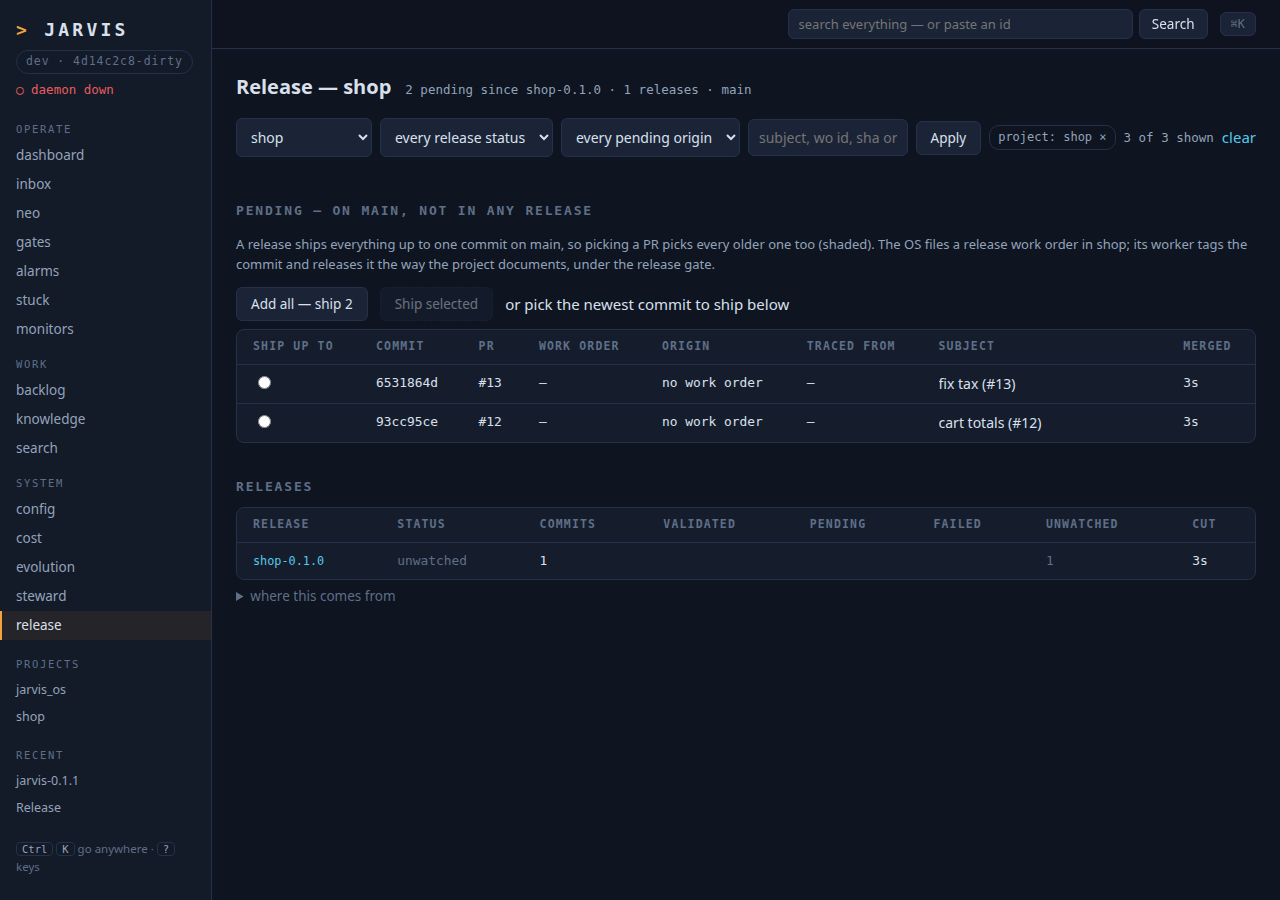
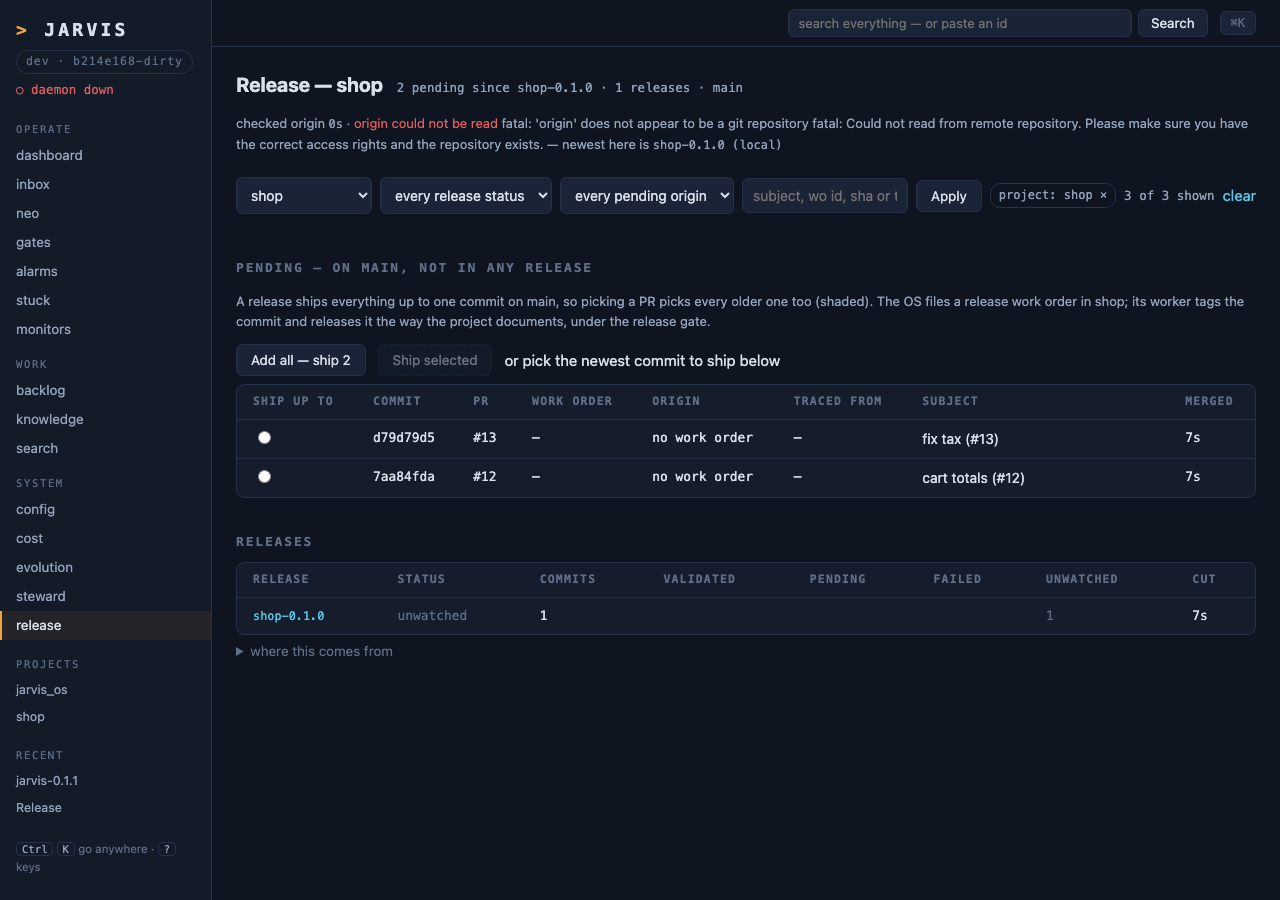
[wo-20d859bf] /release states its provenance, and refuses a cut on already-released commits
The page now states what it compared itself against: when it asked origin, origin's
newest tag, and the version production runs. When the read-only `git ls-remote --tags
origin` fails, the page says so and labels the local newest tag `(local)` rather than
presenting it as origin's.

`ops.release_cut` refuses an OS cut whose oldest commit a `jarvis-*` tag already carries,
naming that tag, before the order is filed. That check was prose in `RELEASE_CUT_BRIEF`,
enforced by a worker only after a session had been spawned.

From io-c1bbfff4, finding release-page-provenance. Neo Q46 chose ls-remote over a fetch,
which wo-d4ce8488 and wo-245af6ec own.

Claude-Session: https://claude.ai/code/session_016jp7VMp9YN9NsPwMGDxgzw

diff --git a/src/jarvis/ui/templates/release.html b/src/jarvis/ui/templates/release.html
@@ -15,6 +15,20 @@ tr.rides td { background: color-mix(in srgb, var(--cyan) 8%, transparent); }
 {{ ui.page_head("Release — " ~ report.project, report.pending | length ~ " pending since " ~ (report.newest or "the first commit")
                 ~ " · " ~ report.releases | length ~ " releases · " ~ report.main_ref) }}
 
+{% set prov = report.provenance %}
+<p class="kv">checked origin <span class="when mono" title="{{ fmt_ts(prov.checked_at) }}">{{ fmt_age(prov.checked_at) }}</span> ·
+  {% if prov.error %}<span class="tone-bad">origin could not be read</span>
+    <span class="sub">{{ prov.error }}</span> — newest here is
+    <span class="mono">{{ (report.newest or "no tag") ~ " (local)" }}</span>
+  {%- else %}newest on origin <span class="mono">{{ prov.origin_newest }}</span>
+    {%- if prov.origin_newest != report.newest %} — this checkout has only
+      <span class="mono">{{ report.newest or "no tag" }}</span>, so a cut here would re-ship released work{% endif %}
+  {%- endif %}
+  {%- if report.is_os %} · production runs
+    {% if prov.production %}<span class="mono">{{ prov.production }}</span>
+    {%- else %}<span class="tone-bad">an unknown version</span> <span class="sub">{{ prov.production_error }}</span>{% endif %}
+  {%- endif %}</p>
+
 {% if report.in_flight %}
 <section class="attention needs-you">
   <div class="strip-head"><span class="n">{{ report.in_flight | length }}</span>release in flight — no new cut until it settles</div>

diff --git a/tests/test_release_console.py b/tests/test_release_console.py
@@ -176,3 +176,68 @@ def test_a_release_page_colours_a_failed_pr(os_repo):
     page = TestClient(create_app()).get("/release/jarvis-0.1.1").text
     assert f'class="mono tone-bad" href="/mo/{os_repo["mv"]}"' in page
     assert "needs-you" in page
+
+
+def _with_origin(repo: Path, bare: Path, *tags: tuple[str, str]) -> None:
+    """A real `origin` carrying `(tag, rev)`s that this clone has never fetched"""
+    _git(bare.parent, "init", "-q", "--bare", bare.name)
+    _git(repo, "remote", "add", "origin", str(bare))
+    _git(repo, "push", "-q", "origin", "main")
+    for name, rev in tags:
+        _git(repo, "tag", name, rev)
+        _git(repo, "push", "-q", "origin", name)
+        _git(repo, "tag", "-d", name)
+
+
+def test_the_page_states_what_origin_has_and_what_production_runs(os_repo, tmp_path,
+                                                                  monkeypatch):
+    """Finding release-page-provenance: three 'current versions' existed at once"""
+    _with_origin(os_repo["repo"], tmp_path / "origin.git", ("jarvis-0.2.0", "HEAD"))
+    prod = tmp_path / "prod"
+    prod.mkdir()
+    _git(prod, "init", "-q", "-b", "main")
+    _git(prod, "config", "user.email", "t@t")
+    _git(prod, "config", "user.name", "t")
+    _git(prod, "commit", "-q", "--allow-empty", "-m", "deployed")
+    _git(prod, "tag", "jarvis-0.0.9")
+    _git(prod, "checkout", "-q", "--detach", "jarvis-0.0.9")
+    monkeypatch.setattr(release, "production_code_dir", lambda: prod)
+
+    report = ops.release_overview()
+    prov = report["provenance"]
+    assert report["newest"] == "jarvis-0.1.0"  # what this clone can see
+    assert prov["origin_newest"] == "jarvis-0.2.0" and not prov["error"]
+    assert prov["checked_at"] > 0 and prov["production"] == "jarvis-0.0.9"
+
+    from fastapi.testclient import TestClient
+
+    from jarvis.ui.app import create_app
+
+    page = TestClient(create_app()).get("/release").text
+    assert "jarvis-0.2.0" in page and "jarvis-0.0.9" in page
+
+
+def test_an_unreachable_origin_is_named_never_passed_off_as_origins_tag(os_repo):
+    report = ops.release_overview()  # the fixture's clone has no `origin` at all
+    prov = report["provenance"]
+    assert prov["origin_newest"] == "" and prov["error"]
+
+    from fastapi.testclient import TestClient
+
+    from jarvis.ui.app import create_app
+
+    page = TestClient(create_app()).get("/release").text
+    assert "origin could not be read" in page and "jarvis-0.1.0 (local)" in page
+
+
+def test_a_cut_a_release_tag_already_carries_is_refused_by_tag_name(os_repo, tmp_path):
+    """The local clone is behind origin, so /release offers already-released commits"""
+    _with_origin(os_repo["repo"], tmp_path / "origin.git", ("jarvis-0.1.1", os_repo["sha2"]))
+    assert ops.release_overview()["newest"] == "jarvis-0.1.0"  # the clone cannot see it
+    with pytest.raises(ops.OpsError, match="jarvis-0.1.1 already"):
+        ops.release_cut(os_repo["sha3"])
+    store = ProjectStore(os_repo["repo"])
+    try:
+        assert not [w for w in store.list_work_orders() if "Ship a release" in w["title"]]
+    finally:
+        store.close()

diff --git a/src/jarvis/ops.py b/src/jarvis/ops.py
@@ -17593,6 +17593,22 @@ def _release_scope(project: str) -> tuple[str, Path, bool, str]:
         raise OpsError(f"cannot read the tags in {repo}: {e}") from e
 
 
+def _release_provenance(repo: Path, glob: str, is_os: bool) -> dict[str, Any]:
+    """What this page compared itself against: origin, and what production runs (Q46)"""
+    from . import release, release_view
+
+    origin, error = release_view.origin_newest(repo, glob)
+    row = {"checked_at": time.time(), "origin_newest": origin, "error": error,
+           "production": "", "production_error": ""}
+    if not is_os:  # another project's releases are not what the OS checkout runs
+        return row
+    status = release.production_status()
+    row["production"] = "" if status.ref == "HEAD" else status.ref
+    row["production_error"] = status.error or (
+        "the production checkout is not at a release tag" if status.ref == "HEAD" else "")
+    return row
+
+
 def release_overview(project: str = "") -> dict[str, Any]:
     """Pending work since the newest tag, and every release with its validation verdict"""
     from . import release_view
@@ -17618,6 +17634,7 @@ def release_overview(project: str = "") -> dict[str, Any]:
         raise OpsError(f"cannot read the release history in {repo}: {e}") from e
     return {"project": project, "repo": str(repo), "main_ref": ref, "newest": newest,
             "is_os": is_os, "tag_glob": glob, "pending": pending, "releases": releases,
+            "provenance": _release_provenance(repo, glob, is_os),
             "in_flight": [{"id": w["id"], "title": w["title"], "status": w["status"],
                            "href": order_path(project, w["id"])}
                           for w in _open_release_orders(project)]}
@@ -17651,7 +17668,7 @@ Run the ordinary release path, with this exact base and nothing else:
 That is a PRIVILEGED ACTION and it will be gated — correct and expected. Read `jarvis \
 brief gates` and make your case first (`jarvis gate request`). Do not move the base to a \
 newer commit, do not drop `--stage`, and do not restart any service by hand. If CI on \
-{base} is red, or a `jarvis-*` tag already contains it, stop and say so.
+{base} is red, stop and say so.
 """
 
 PROJECT_RELEASE_CUT_BRIEF = """\
@@ -17694,6 +17711,14 @@ def release_cut(base: str, project: str = "") -> dict[str, Any]:
     if not shipped:
         raise OpsError(f"{base[:12] or 'no commit'} is not pending on "
                        f"{overview['main_ref']} — reload /release and pick again")
+    if overview["is_os"]:
+        oldest = shipped[-1]
+        carried, _ = release.tags_containing(Path(overview["repo"]), [oldest["sha"]])
+        if carried:
+            raise OpsError(
+                f"{carried[0]} already carries {oldest['short']}, which a cut at "
+                f"{base[:8]} would ship again — this checkout is behind origin, which "
+                f"has {overview['provenance']['origin_newest'] or 'tags it cannot read'}")
     lines = "\n".join(
         f"- `{r['short']}` {r['subject']}" + (f" — `{r['wo_id']}`" if r["wo_id"] else "")
         for r in shipped)

diff --git a/src/jarvis/release_view.py b/src/jarvis/release_view.py
@@ -42,6 +42,23 @@ def tags(repo: Path, glob: str = release.RELEASE_TAG_GLOB) -> list[dict[str, Any
     return rows[::-1]
 
 
+def origin_newest(repo: Path, glob: str = release.RELEASE_TAG_GLOB) -> tuple[str, str]:
+    """origin's newest tag matching `glob`, or why it could not be read (Q46)"""
+    try:
+        out = subprocess.run(
+            ["git", "-C", str(repo), "ls-remote", "--tags", "--refs",
+             "--sort=version:refname", "origin", f"refs/tags/{glob}"],
+            capture_output=True, text=True, timeout=30, check=False)
+    except (OSError, subprocess.SubprocessError) as e:
+        return "", f"{type(e).__name__}: {e}"
+    if out.returncode != 0:
+        return "", (out.stderr or out.stdout).strip().replace("\n", " ")[:200] or \
+            f"git ls-remote exited {out.returncode}"
+    names = [line.split("refs/tags/", 1)[1] for line in out.stdout.splitlines()
+             if "refs/tags/" in line]
+    return (names[-1] if names else ""), "" if names else f"origin has no {glob} tag"
+
+
 def commits(repo: Path, from_ref: str, to_ref: str) -> list[dict[str, Any]]:
     """First-parent commits of `from..to`, newest first, release bump commits dropped"""
     span = f"{from_ref}..{to_ref}" if from_ref else to_ref

diff --git a/scripts/screenshot_release_console.py b/scripts/screenshot_release_console.py
@@ -54,6 +54,13 @@ def seed() -> Path:
         if tag:
             _git(repo, "tag", tag)
     store.close()
+    bare = repo.parent / "origin.git"  # origin is ahead of this clone, as in io-c1bbfff4
+    _git(repo.parent, "init", "-q", "--bare", "origin.git")
+    _git(repo, "remote", "add", "origin", str(bare))
+    _git(repo, "push", "-q", "origin", "main")
+    _git(repo, "tag", "jarvis-0.1.4")
+    _git(repo, "push", "-q", "origin", "jarvis-0.1.4")
+    _git(repo, "tag", "-d", "jarvis-0.1.4")
     app = repo.parent / "shop"  # another project, spec §3
     app.mkdir()
     _git(app, "init", "-q", "-b", "main")

diff --git a/ASSUMPTIONS_2026-11-04.md b/ASSUMPTIONS_2026-11-04.md
@@ -1,0 +1,23 @@
+# Assumptions — wo-20d859bf
+
+1. **Origin is read with `git ls-remote --tags origin`, not a fetch.** Neo ruled this in Q46:
+   it is the only option that states what origin actually has, and it stays clear of
+   wo-d4ce8488 (the `/release` fetch) and wo-245af6ec (the shared refresh layer), both still
+   running. When ls-remote fails the page says so and labels the local newest tag `(local)`.
+
+2. **The already-released refusal in `ops.release_cut` runs only for the OS project.**
+   `release.tags_containing` is hardcoded to `RELEASE_TAG_GLOB` (`jarvis-*`), so on another
+   project's repo it would fetch over the network and always find nothing. Rejected:
+   calling it unconditionally, and generalising `tags_containing` to take a glob
+   (re-implementing the function this order said to reuse).
+
+3. **The refusal checks the OLDEST commit the cut would ship**, not the base. If a release
+   tag already carries that commit, the cut re-ships released work — which is the symptom
+   the improvement order recorded (28 of 38 pending commits were already in jarvis-0.14.11).
+
+4. **`a jarvis-* tag already contains it` was removed from `RELEASE_CUT_BRIEF`**, per the
+   finding's "move the check out of prose and into `ops.release_cut`". The CI-red clause
+   stays. `PROJECT_RELEASE_CUT_BRIEF` keeps its prose, since the code guard is OS-only.
+
+5. **The production version is shown only on the OS project's page.** Another project's
+   releases are not what the OS production checkout runs.

diff --git a/docs/superpowers/specs/2026-11-01-release-console.md b/docs/superpowers/specs/2026-11-01-release-console.md
@@ -34,6 +34,13 @@ A page `/release` under **system** (`src/jarvis/ui/app.py`, `ops.release_*`,
 
 Tags never move, so a tag's commit range is cached in-process by `(repo, previous, tag)`.
 
+**Provenance (io-c1bbfff4, Neo Q46).** A local clone is a cache, so the page states what it
+compared: when it asked origin (`release_view.origin_newest`, a read-only
+`git ls-remote --tags origin` — never a fetch, which another order owns), origin's newest
+tag, and the version production runs (`release.production_status`, OS project only). When
+ls-remote fails the page says so and labels the local newest tag `(local)`; it never
+presents it as origin's.
+
 ### 2. Cutting (Q2850)
 
 shipit ships everything up to ONE `--base` sha, so selection is a **prefix cut**: ticking a
@@ -49,6 +56,11 @@ landed fix into an order carrying `BASE_KEY`.
 
 A cut is refused while any release order is still open, naming it — concurrent release
 orders are how empty versions shipped before (kn-4f5aaa2b).
+
+An OS cut is also refused when a `jarvis-*` tag already carries the oldest commit it would
+ship (`release.tags_containing`, which fetches tags first, so a release cut on another
+machine counts). It is refused by tag name BEFORE the order is filed: this was prose in
+`RELEASE_CUT_BRIEF`, enforced by a worker only after a session had been spawned.
 
 Out of scope: arbitrary non-prefix subsets (a cherry-pick mode in shipit).
 
